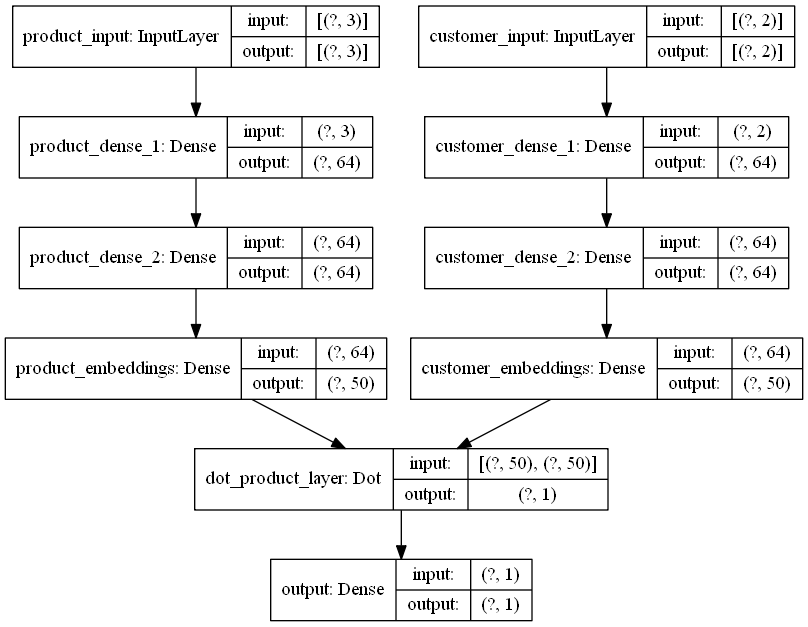
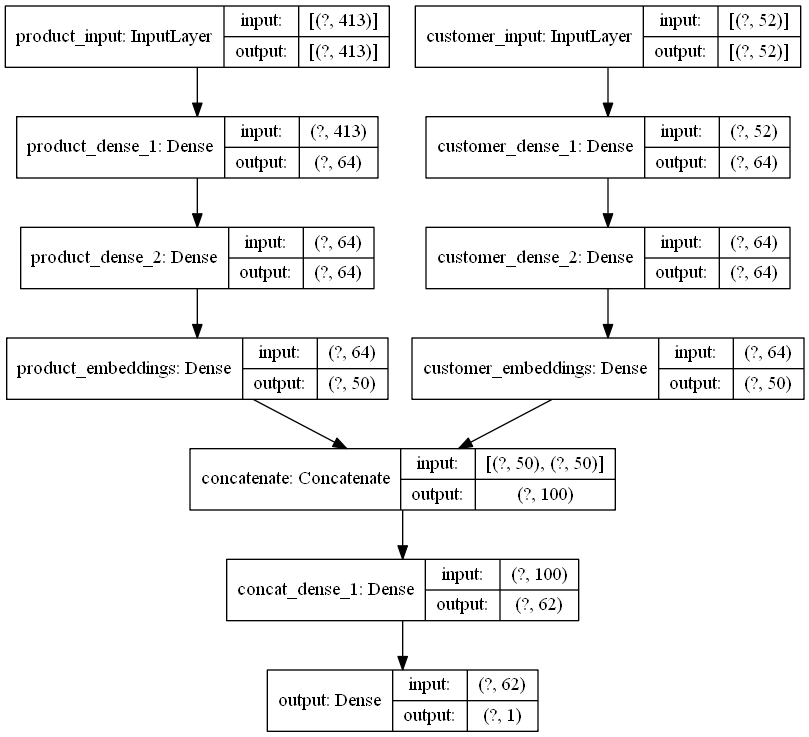
working version of one_hot encoding

Changed region(s): [[0.0, 0.0, 1.0, 1.0]]

diff --git a/models/recommendation_model.py b/models/recommendation_model.py
@@ -1,6 +1,6 @@
+from functools import reduce
+
 import tensorflow as tf
-from tensorflow.keras.layers.experimental import preprocessing
-from tensorflow.keras.utils import plot_model
 
 embedding_dim = 50
 
@@ -61,8 +61,10 @@ def deep_nn_model(product_feature_dim, customer_feature_dim, features_depth):
     # i.e (batch_size, shape_1, shape_2)
 
     # Shape: (,product_feature_dim)
-    product_input = tf.keras.layers.Input(shape=(product_feature_dim,), name="product_input")
-    customer_input = tf.keras.layers.Input(shape=(customer_feature_dim,), name="customer_input")
+    product_input_shape = reduce(lambda acc, val: acc + val, features_depth[:product_feature_dim])
+    customer_input_shape = reduce(lambda acc, val: acc + val, features_depth[-customer_feature_dim:])
+    product_input = tf.keras.layers.Input(shape=(product_input_shape,), name="product_input")
+    customer_input = tf.keras.layers.Input(shape=(customer_input_shape,), name="customer_input")
 
     product_dense = generate_dense_for_deep_nn(product_input, 'product')
     # Shape: (,product_feature_dim, embedding_dim)
@@ -78,8 +80,11 @@ def deep_nn_model(product_feature_dim, customer_feature_dim, features_depth):
         name="customer_embeddings"
     )(customer_dense)
     # Shape: (
-    dot_product_layer = tf.keras.layers.Dot(axes=1, name="dot_product_layer")([product_embedding, customer_embedding])
-    output = tf.keras.layers.Dense(1, activation="relu", name='output')(dot_product_layer)
+    # dot_product_layer = tf.keras.layers.Dot(axes=1, name="dot_product_layer")([product_embedding, customer_embedding])
+    concat_layer = tf.keras.layers.Concatenate()([product_embedding, customer_embedding])
+    concat_dense_1 = tf.keras.layers.Dense(62, activation='relu', name="concat_dense_1")(concat_layer)
+    # concat_dense_2 = tf.keras.layers.Dense(62, activation='relu', name="concat_dense_2")(concat_dense_1)
+    output = tf.keras.layers.Dense(1, name='output')(concat_dense_1)
     model = tf.keras.Model(inputs=[product_input, customer_input], outputs=output, name="DNNRecommendationModel")
     model.compile(optimizer="adam", loss="mean_squared_error", metrics=['mse', 'mae'])
     tf.keras.utils.plot_model(model, "multi_input_and_output_model.png", show_shapes=True)

diff --git a/tools/data_processing.py b/tools/data_processing.py
@@ -1,10 +1,12 @@
-import pandas as pd
-import config as cfg
 import os
-import tensorflow as tf
+
 import numpy as np
+import pandas as pd
+import tensorflow as tf
 from tqdm import tqdm
-from tools.utils import filter_index_and_null, np_iter
+
+import config as cfg
+from tools.utils import filter_index_and_null
 
 
 class DataProcessor:
@@ -126,19 +128,27 @@ class RecommendationDataProcessor:
         return dataset, train_dataset, test_dataset,
 
     def _map_ds(self, feature, label):
-        # num_of_features = feature.shape[0]
-        # return tf.reshape(feature, [1, num_of_features])
         product_feature = feature[:len(self.product_columns)]
         product_feature_len = len(product_feature)
+        product_one_hot_vector = self._make_one_hot_encoding(product_feature, self.features_depth[:product_feature_len])
         customer_feature = feature[-len(self.customer_columns):]
         customer_feature_len = len(customer_feature)
-        product_feature, customer_feature = tf.reshape(product_feature, [1, product_feature_len]), tf.reshape(
-            customer_feature, [1, customer_feature_len])
+        customer_one_hot_vector = self._make_one_hot_encoding(customer_feature,
+                                                              self.features_depth[-customer_feature_len:])
         return {
-                   'product_input': product_feature,
-                   'customer_input': customer_feature,
+                   'product_input': product_one_hot_vector,
+                   'customer_input': customer_one_hot_vector,
                }, label
         # return  [product_feature, customer_feature]
+
+    @staticmethod
+    def _make_one_hot_encoding(feature, features_depth):
+        one_hot_vectors_list = []
+        for index in range(len(features_depth)):
+            per_feature = tf.gather(feature, indices=[index], axis=0)
+            one_hot_vector_per_feature = tf.one_hot(tf.cast(per_feature, dtype=tf.int32), features_depth[index])
+            one_hot_vectors_list.append(one_hot_vector_per_feature)
+        return tf.concat(one_hot_vectors_list, axis=-1)
 
     @staticmethod
     def transform_column_to_cat(df, col_name):

diff --git a/train_recommendation.py b/train_recommendation.py
@@ -25,7 +25,7 @@ if __name__ == '__main__':
     RATING_PATH = os.path.join(args.data_dir, 'rating.csv')
     PRODUCT_PATH = os.path.join(args.data_dir, 'products.csv')
     CUSTOMER_PATH = os.path.join(args.data_dir, 'customers.csv')
-
+    checkpoint_dir = os.path.join(args.checkpoint_dir, args.model)
     if not args.train and not args.eval:
         print('Need to specify "--train" or "--eval" flags or both.')
         sys.exit()
@@ -38,7 +38,7 @@ if __name__ == '__main__':
             recommendation_model.eval_candidate_model(True)
 
     elif args.model == 'dnn':
-        recommendation_model = DeepNNRecommendationModel(args.data_dir, args.checkpoint_dir)
+        recommendation_model = DeepNNRecommendationModel(args.data_dir, checkpoint_dir)
         if args.train:
             recommendation_model.train(epochs=args.epoch)
         if args.eval:

diff --git a/models/Recommendation.py b/models/Recommendation.py
@@ -95,11 +95,12 @@ class MatrixRecommendationModel:
 
 
 class DeepNNRecommendationModel:
-    def __init__(self, data_dir, checkpoint_dir="checkpoint/deepNN_recommendation"):
+    def __init__(self, data_dir, checkpoint_dir="./checkpoint/deepNN_recommendation"):
         self.data_processor = RecommendationDataProcessor(data_dir)
         self.model = deep_nn_model(self.data_processor.product_feature_dim, self.data_processor.customer_feature_dim,
                                    self.data_processor.features_depth)
         self.checkpoint_dir = checkpoint_dir
+        make_dir(self.checkpoint_dir)
         self.checkpoint_path = os.path.join(checkpoint_dir, 'deep_nn_recommendation.ckpt')
 
     def train(self, epochs=300, save_checkpoint=True):
